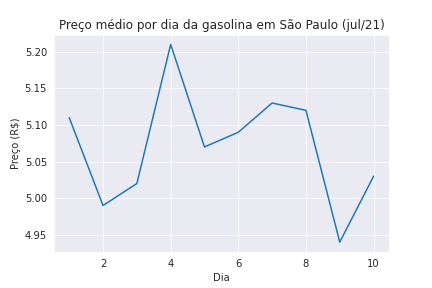
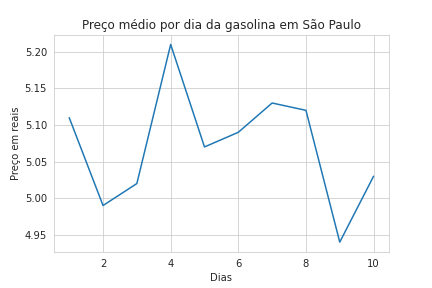
arquivos alterados em develop

diff --git a/gasolina.py b/gasolina.py
@@ -3,8 +3,8 @@ import pandas as pd
 
 csv = pd.read_csv('gasolina.csv')
 
-with sns.axes_style('darkgrid'):
+with sns.axes_style('whitegrid'):
   grafico = sns.lineplot(data = csv, x='dia', y='venda')
-  grafico.set(title='Preço médio por dia da gasolina em São Paulo (jul/21)', xlabel = 'Dia', ylabel = 'Preço (R$)')
+  grafico.set(title='Preço médio por dia da gasolina em São Paulo', xlabel = 'Dias', ylabel = 'Preço em reais')
 
 grafico.figure.savefig("./gasolina.png")
